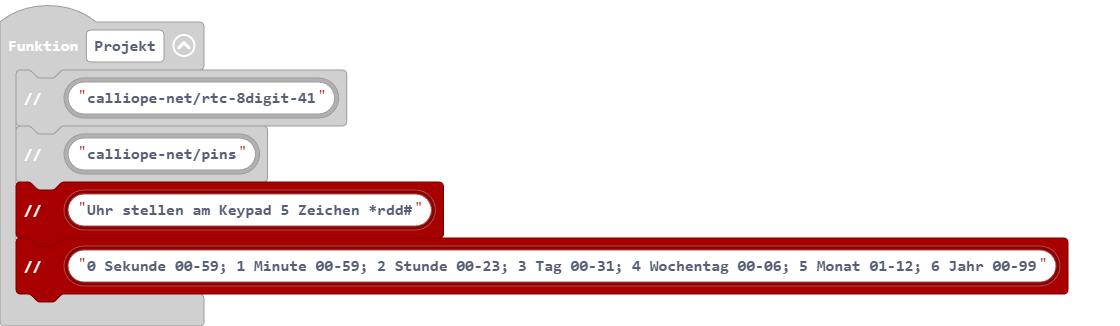
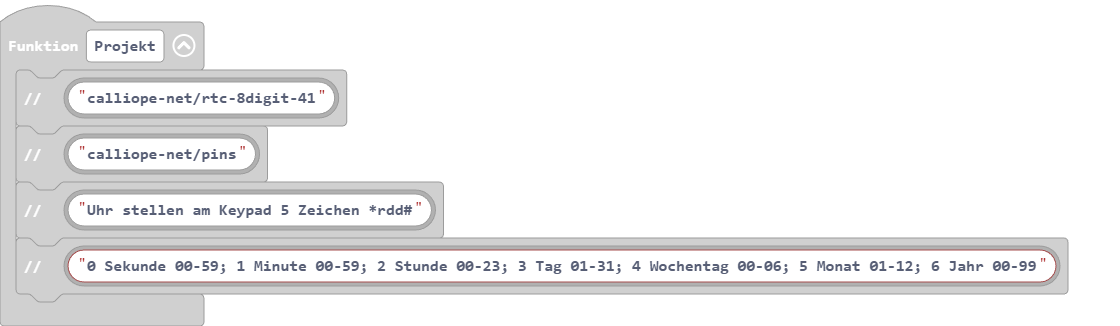
Aktualisiere main.blocks, main.ts

Changed region(s): [[0.0, 0.5521, 0.9688, 0.9509], [0.5, 0.7975, 0.5312, 0.8282]]

diff --git a/main.ts b/main.ts
@@ -5,7 +5,7 @@ function Projekt () {
     pins.comment(pins.pins_text("calliope-net/rtc-8digit-41"))
     pins.comment(pins.pins_text("calliope-net/pins"))
     pins.comment(pins.pins_text("Uhr stellen am Keypad 5 Zeichen *rdd#"))
-    pins.comment(pins.pins_text("0 Sekunde 00-59; 1 Minute 00-59; 2 Stunde 00-23; 3 Tag 00-31; 4 Wochentag 00-06; 5 Monat 01-12; 6 Jahr 00-99"))
+    pins.comment(pins.pins_text("0 Sekunde 00-59; 1 Minute 00-59; 2 Stunde 00-23; 3 Tag 01-31; 4 Wochentag 00-06; 5 Monat 01-12; 6 Jahr 00-99"))
 }
 pins.addDisplay(pins.pins_DigitalPin(DigitalPin.C16), pins.pins_DigitalPin(DigitalPin.C17))
 pins.addDisplay(pins.pins_DigitalPin(DigitalPin.P0), pins.pins_DigitalPin(DigitalPin.P1))
